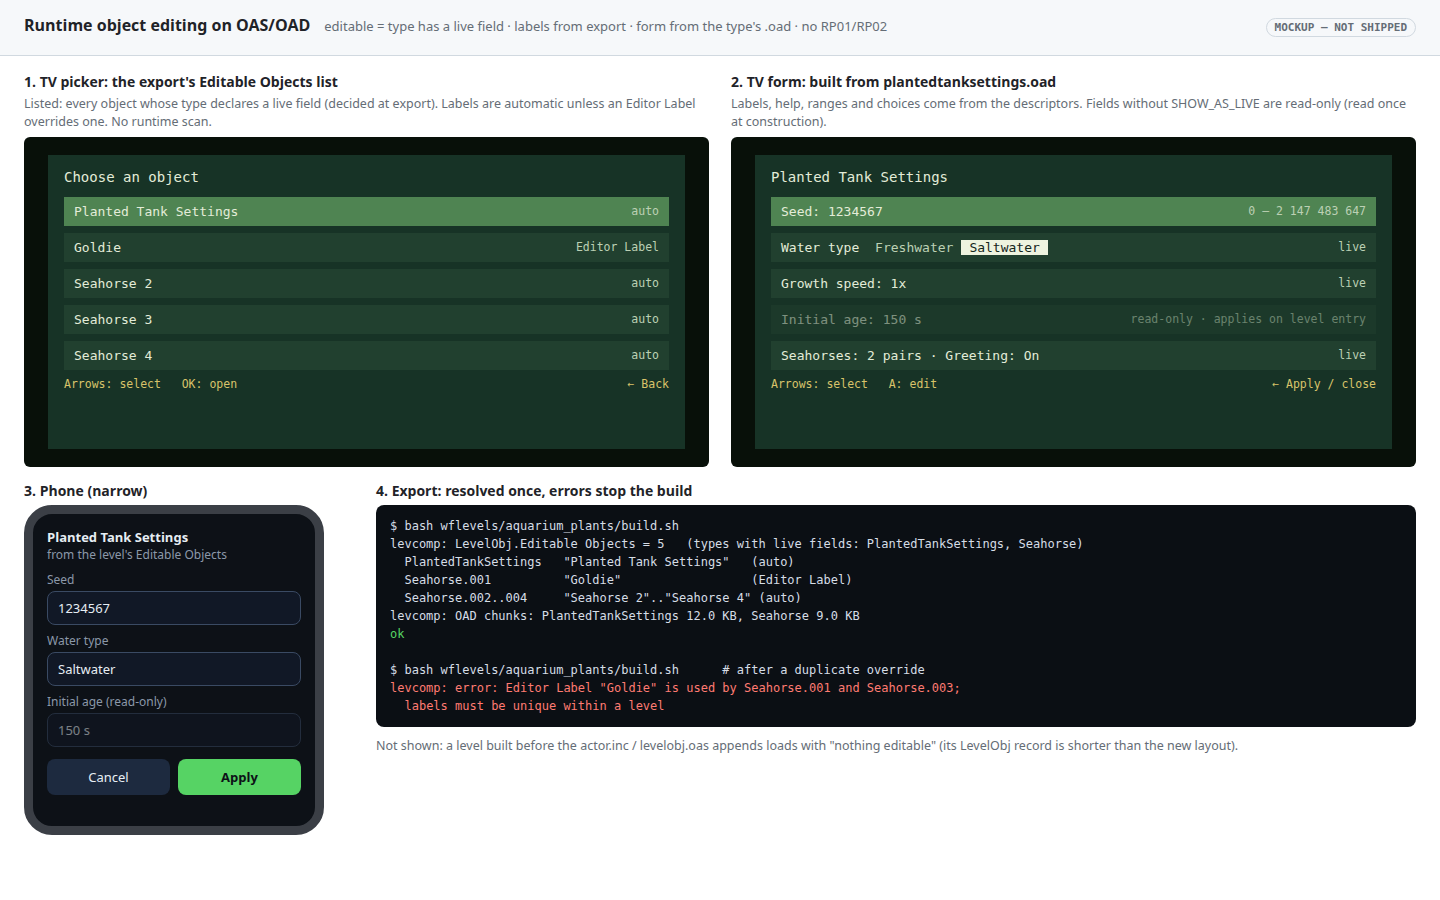
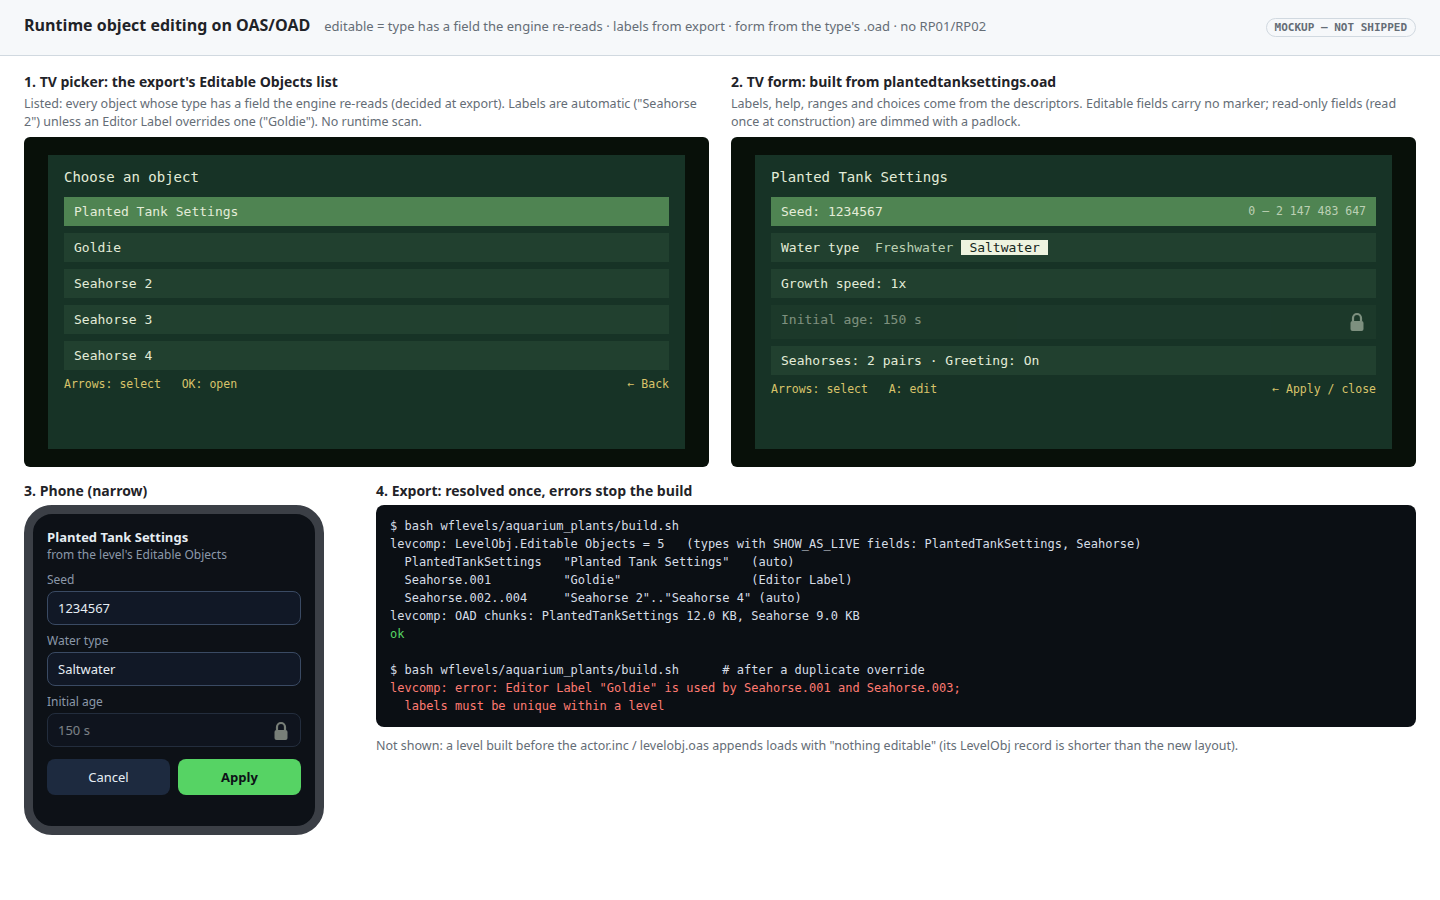
Runtime object editing: no 'live' in the UI; padlock on read-only fields
Will, 2026-10-16: never print "live" on edit fields. Editable fields
carry no marker; read-only fields are dimmed with a padlock icon. The
mockup drops the in-frame annotation tags and draws the padlock as an
inline SVG so it reads at TV distance.

Claude-Session: https://claude.ai/code/session_01T3gB59hNsFhWnCTTKHc1yk

diff --git a/docs/plans/2026-10-16-runtime-object-editing/editor.html b/docs/plans/2026-10-16-runtime-object-editing/editor.html
@@ -24,7 +24,7 @@
   .tv .title { font-size:14px; margin-bottom:12px; }
   .row { background:#21402f; padding:7px 10px; margin-bottom:7px; display:flex; justify-content:space-between; }
   .row.sel { background:#4f8452; } .row .k { color:#bcd0b4; font-size:11.5px; }
-  .ro { opacity:.5; }
+  .ro { opacity:.5; } .lock { float:right; color:#e3ecd8; vertical-align:middle; }
   .seg { display:inline-flex; gap:0; } .seg span { padding:0 8px; color:#bcd0b4; } .seg span.on { background:#eef3df; color:#14261b; }
   .hint { color:#d9c36a; font-size:11.5px; margin-top:6px; display:flex; justify-content:space-between; }
   .row2 { display:grid; grid-template-columns:330px 1fr; gap:22px; padding:14px 24px 0; }
@@ -32,38 +32,38 @@
   .phone .t { font-weight:700; } .phone .s { color:#8b98a9; font-size:12px; margin-bottom:8px; }
   .phone label { display:block; color:#8b98a9; font-size:12px; margin:7px 0 3px; }
   .phone .v { border:1px solid #3a4a63; border-radius:8px; padding:7px 10px; background:#111826; }
-  .phone .v.ro { opacity:.5; }
+  .phone .v.ro { opacity:.5; } .lock { float:right; color:#e3ecd8; vertical-align:middle; }
   .phone .btns { display:grid; grid-template-columns:1fr 1fr; gap:8px; margin-top:12px; } .phone .btns span { text-align:center; padding:9px 0; border-radius:8px; background:#1d2a3f; } .phone .btns .ok { background:#56d364; color:#0d1117; font-weight:700; }
   pre { margin:0; padding:12px 14px; border-radius:8px; background:#0b0f14; color:#d6dde6; font:12px/1.5 ui-monospace,monospace; white-space:pre-wrap; }
   .err { color:#ff7b72; } .ok2 { color:#56d364; } .note { margin-top:10px; font-size:12.5px; color:var(--muted); }
 </style>
 </head>
 <body>
-<header><h1>Runtime object editing on OAS/OAD</h1><span class="sub">editable = type has a live field · labels from export · form from the type's .oad · no RP01/RP02</span><span class="tag">MOCKUP — NOT SHIPPED</span></header>
+<header><h1>Runtime object editing on OAS/OAD</h1><span class="sub">editable = type has a field the engine re-reads · labels from export · form from the type's .oad · no RP01/RP02</span><span class="tag">MOCKUP — NOT SHIPPED</span></header>
 <div class="grid">
   <div class="card">
     <h2>1. TV picker: the export's Editable Objects list</h2>
-    <p>Listed: every object whose type declares a live field (decided at export). Labels are automatic unless an Editor Label overrides one. No runtime scan.</p>
+    <p>Listed: every object whose type has a field the engine re-reads (decided at export). Labels are automatic ("Seahorse 2") unless an Editor Label overrides one ("Goldie"). No runtime scan.</p>
     <div class="tv"><div class="box">
       <div class="title">Choose an object</div>
-      <div class="row sel"><span>Planted Tank Settings</span><span class="k">auto</span></div>
-      <div class="row"><span>Goldie</span><span class="k">Editor Label</span></div>
-      <div class="row"><span>Seahorse 2</span><span class="k">auto</span></div>
-      <div class="row"><span>Seahorse 3</span><span class="k">auto</span></div>
-      <div class="row"><span>Seahorse 4</span><span class="k">auto</span></div>
+      <div class="row sel"><span>Planted Tank Settings</span></div>
+      <div class="row"><span>Goldie</span></div>
+      <div class="row"><span>Seahorse 2</span></div>
+      <div class="row"><span>Seahorse 3</span></div>
+      <div class="row"><span>Seahorse 4</span></div>
       <div class="hint"><span>Arrows: select&nbsp;&nbsp; OK: open</span><span>← Back</span></div>
     </div></div>
   </div>
   <div class="card">
     <h2>2. TV form: built from plantedtanksettings.oad</h2>
-    <p>Labels, help, ranges and choices come from the descriptors. Fields without SHOW_AS_LIVE are read-only (read once at construction).</p>
+    <p>Labels, help, ranges and choices come from the descriptors. Editable fields carry no marker; read-only fields (read once at construction) are dimmed with a padlock.</p>
     <div class="tv"><div class="box">
       <div class="title">Planted Tank Settings</div>
       <div class="row sel"><span>Seed: 1234567</span><span class="k">0 – 2 147 483 647</span></div>
-      <div class="row"><span>Water type <span class="seg"><span>Freshwater</span><span class="on">Saltwater</span></span></span><span class="k">live</span></div>
-      <div class="row"><span>Growth speed: 1x</span><span class="k">live</span></div>
-      <div class="row ro"><span>Initial age: 150 s</span><span class="k">read-only · applies on level entry</span></div>
-      <div class="row"><span>Seahorses: 2 pairs · Greeting: On</span><span class="k">live</span></div>
+      <div class="row"><span>Water type <span class="seg"><span>Freshwater</span><span class="on">Saltwater</span></span></span></div>
+      <div class="row"><span>Growth speed: 1x</span></div>
+      <div class="row ro"><span>Initial age: 150 s</span><svg class="lock" width="18" height="20" viewBox="0 0 18 20" aria-label="read-only" role="img"><path d="M5 9V6a4 4 0 0 1 8 0v3" fill="none" stroke="currentColor" stroke-width="2.2"/><rect x="2.5" y="9" width="13" height="10" rx="2" fill="currentColor"/></svg></div>
+      <div class="row"><span>Seahorses: 2 pairs · Greeting: On</span></div>
       <div class="hint"><span>Arrows: select&nbsp;&nbsp; A: edit</span><span>← Apply / close</span></div>
     </div></div>
   </div>
@@ -75,14 +75,14 @@
       <div class="t">Planted Tank Settings</div><div class="s">from the level's Editable Objects</div>
       <label>Seed</label><div class="v">1234567</div>
       <label>Water type</label><div class="v">Saltwater</div>
-      <label>Initial age (read-only)</label><div class="v ro">150 s</div>
+      <label>Initial age</label><div class="v ro">150 s <svg class="lock" width="18" height="20" viewBox="0 0 18 20" aria-label="read-only" role="img"><path d="M5 9V6a4 4 0 0 1 8 0v3" fill="none" stroke="currentColor" stroke-width="2.2"/><rect x="2.5" y="9" width="13" height="10" rx="2" fill="currentColor"/></svg></div>
       <div class="btns"><span>Cancel</span><span class="ok">Apply</span></div>
     </div>
   </div>
   <div class="card">
     <h2>4. Export: resolved once, errors stop the build</h2>
 <pre>$ bash wflevels/aquarium_plants/build.sh
-levcomp: LevelObj.Editable Objects = 5   (types with live fields: PlantedTankSettings, Seahorse)
+levcomp: LevelObj.Editable Objects = 5   (types with SHOW_AS_LIVE fields: PlantedTankSettings, Seahorse)
   PlantedTankSettings   "Planted Tank Settings"   (auto)
   Seahorse.001          "Goldie"                  (Editor Label)
   Seahorse.002..004     "Seahorse 2".."Seahorse 4" (auto)

diff --git a/docs/plans/2026-10-16-runtime-object-editing.md b/docs/plans/2026-10-16-runtime-object-editing.md
@@ -16,7 +16,7 @@
 
 | M6 | **Labels:** automatic at export (the type's display name plus an ordinal, e.g. "Seahorse 2"). An optional **Editor Label** in `actor.inc` (`XDATA_COPY`) overrides it. Labels must be unique within a level, or the build fails. |
 | M7 | **Editability is automatic at export:** an object is editable exactly when its type declares at least one live field. No per-instance flag. Add an opt-out only if a picker ever gets crowded. |
-| M8 | **Live fields are declared in the OAS** with a `SHOW_AS_LIVE` modifier bit (0x40), following the `SHOW_AS_VECTOR` (0x80) pattern. A type with live fields implements one change hook, and every live field has a test proving an edit takes effect. Non-live fields show read-only. |
+| M8 | **Live fields are declared in the OAS** with a `SHOW_AS_LIVE` modifier bit (0x40), following the `SHOW_AS_VECTOR` (0x80) pattern. A type with live fields implements one change hook, and every live field has a test proving an edit takes effect. Non-live fields show read-only. **The UI never prints "live":** editable fields carry no marker; read-only fields are dimmed and show a padlock icon (Will, 2026‑10‑16). |
 
 **Open:**
 
@@ -82,11 +82,11 @@ flowchart LR
 6. **Live fields (M8):**
     - **Declared.** A field is live when its OAS entry adds `SHOW_AS_LIVE` to its show-as (e.g. `SHOW_AS_SLIDER|SHOW_AS_LIVE`). Liveness can't be inferred from the data: it means the engine re-reads the field after construction, which is a property of engine code.
     - **Honoured.** A type with live fields implements `OnPropertiesChanged(changedFields)` on its actor class. Apply writes the overlay, then calls the hook, which re-reads what the type uses. The planted tank already re-reads Water type and Growth speed every tick, so its hook is nearly empty; a changed Seed triggers a regenerate.
-    - **Enforced.** Every live field has a test that edits it, applies, and checks the effect, so a field marked live that does nothing fails the build. Fields without the bit show read-only, with "applies on level entry".
+    - **Enforced.** Every live field has a test that edits it, applies, and checks the effect, so a field marked live that does nothing fails the build. Fields without the bit are read-only: dimmed, with a padlock icon and no text tag. Editable fields carry no marker at all, and the word "live" never appears in the UI. The TV form draws the padlock from its rectangle primitives if its font has no lock character.
 7. **UI, kept:**
     - The 2026‑10‑06 host, TV form and phone form remain.
     - The picker lists the `LevelObj` Editable Objects by label. A level with one editable object opens its form directly, as today.
-    - The form is built from the object type's `.oad`: labels, help, ranges, choices, show-as. Fields without `SHOW_AS_LIVE` are read-only.
+    - The form is built from the object type's `.oad`: labels, help, ranges, choices, show-as. Fields without `SHOW_AS_LIVE` are read-only, dimmed, with a padlock icon.
 8. **Scripts:** `property@ ( actor field -- value valid )` keeps its signature. It now reads the overlay struct, with field = descriptor index.
 9. **Migration:**
     - **Planted tank:** a `PlantedTankSettings` actor joins the level. `planted::State` reads its struct and `syncProperties` goes. The `settings-catalog.inc` include leaves the engine, and `settings-bindings.json` and the level's `RPRP` are removed.
@@ -108,11 +108,11 @@ flowchart LR
 
 ## Mockups
 
-[![Picker with automatic and overridden labels, form with live and read-only fields, phone, export error](2026-10-16-runtime-object-editing/editor.png)](2026-10-16-runtime-object-editing/editor.html)
+[![Picker with automatic and overridden labels, form with editable and padlocked read-only fields, phone, export error](2026-10-16-runtime-object-editing/editor.png)](2026-10-16-runtime-object-editing/editor.html)
 
 It shows:
 - the TV picker listing editable objects by automatic label ("Seahorse 2") and an override ("Goldie");
-- the Planted Tank Settings form, built from its `.oad`, with Initial age read-only because it isn't live;
+- the Planted Tank Settings form, built from its `.oad`, with Initial age dimmed and padlocked (read-only) and no marker on the editable fields;
 - the same form on the phone;
 - the export failing on a duplicate label.
 

diff --git a/docs/plans/.history/2026-10-16-runtime-object-editing.md b/docs/plans/.history/2026-10-16-runtime-object-editing.md
@@ -1,0 +1,11 @@
+| Date | Change |
+|------|--------|
+| [2026-10-16](https://github.com/wbniv/WorldFoundry/commit/7ef36fbb) | Plan runtime object editing on OAS/OAD to replace RP02 |
+
+<!--history-meta v1
+7ef36fbb	author	Will Norris
+7ef36fbb	added	148
+7ef36fbb	deleted	0
+7ef36fbb	files	1
+7ef36fbb	body	Any object whose type declares a SHOW_AS_LIVE field becomes editable on\nthe TV/phone. Export resolves the list into LevelObj (no runtime scans),\nlabels are automatic with an optional Editor Label override, the form is\nbuilt from the type's shipped .oad, and edits go to a per-object writable\noverlay with a change hook and a test per live field. Settings holders\nbecome standard OAS types (PlantedTankSettings inherits Settings through\n@include); RP01, settings-bindings.json, the engine-compiled catalog and\nplanted::State retire. Decisions M1-M8 from Will (2026-10-16); engine\nscope still to confirm. The RP02 TODO line is replaced by this item.\n\nCo-Authored-By: Claude Opus 5.5 <noreply@anthropic.com>\nClaude-Session: https://claude.ai/code/session_01T3gB59hNsFhWnCTTKHc1yk
+-->
